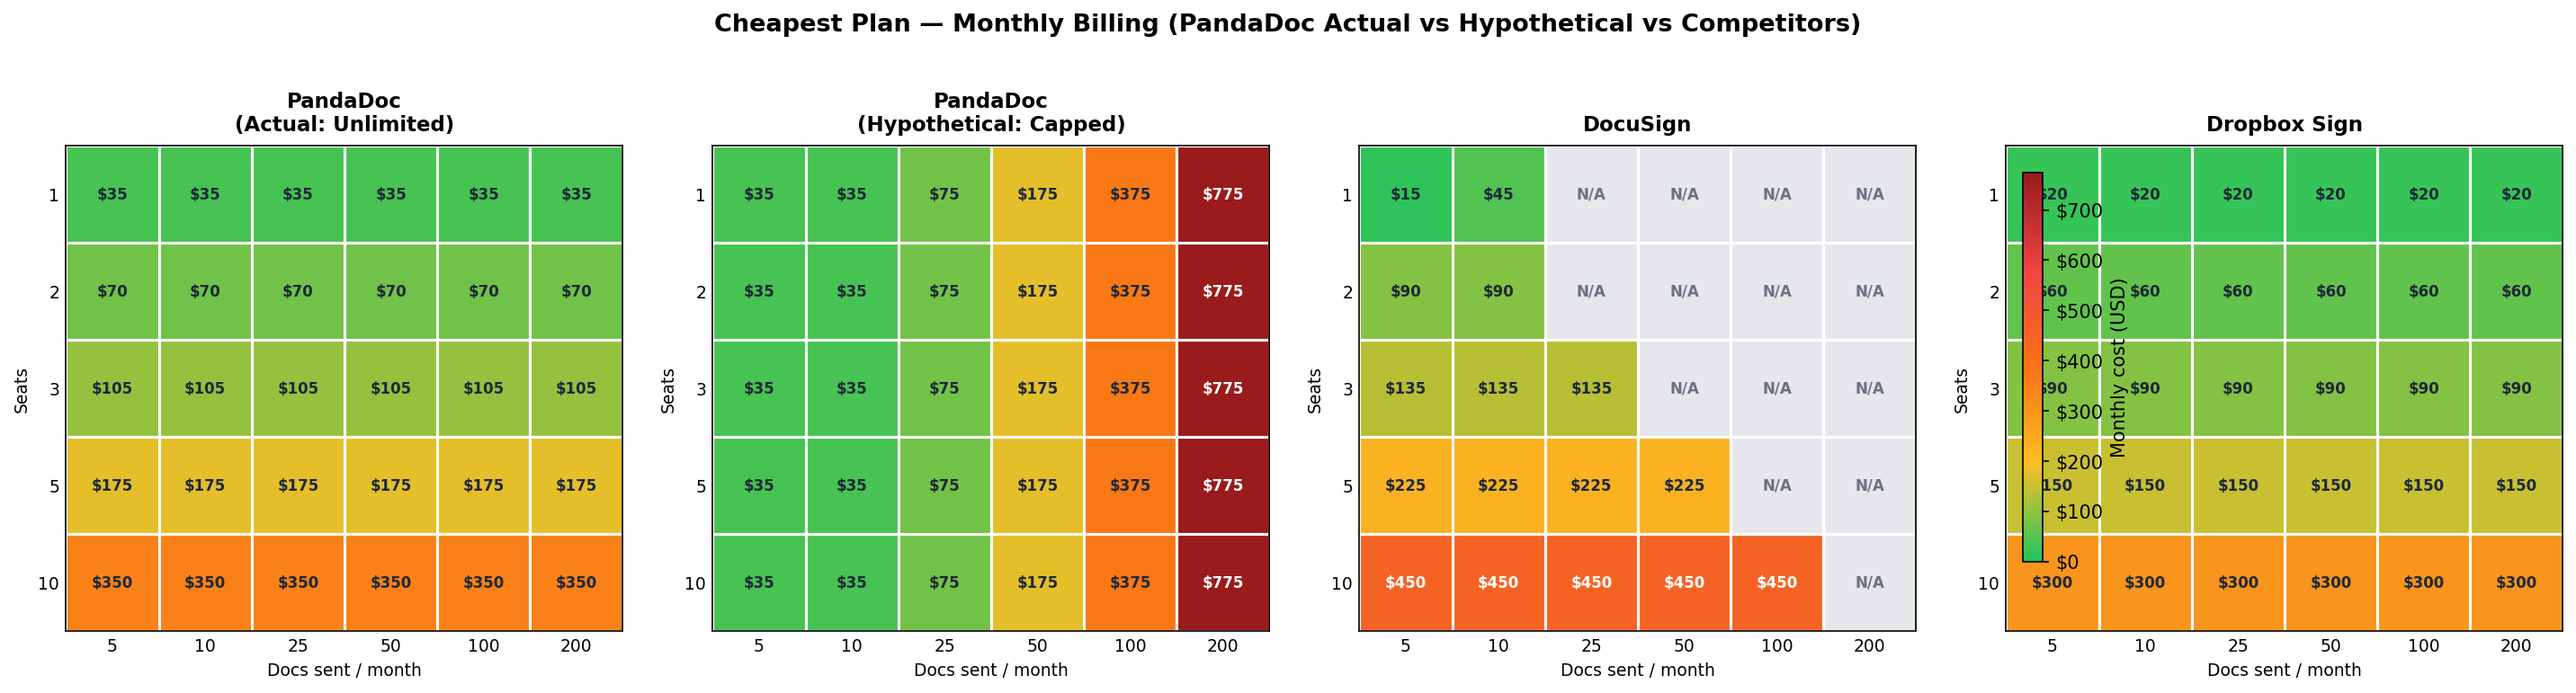
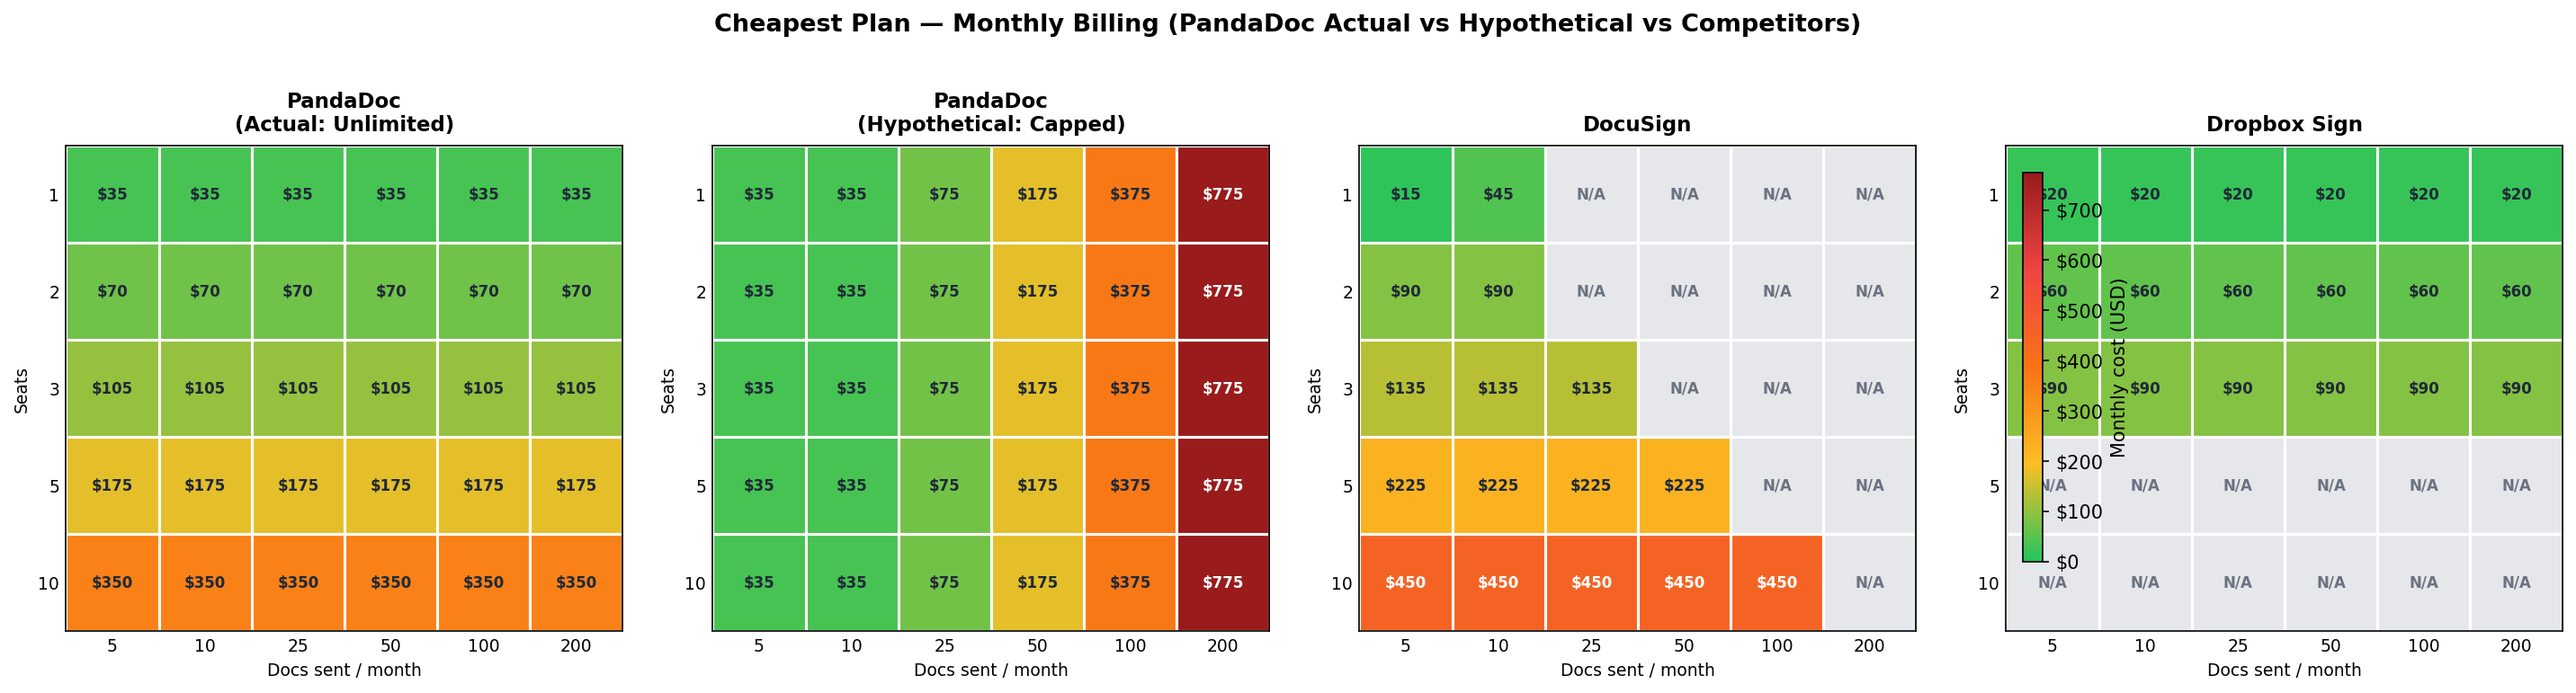
Fix Dropbox Sign seat constraints: Standard capped at 2-4, Premium at ~$50/seat
- Standard: now enforces max 4 seats (was unlimited). 5+ seats forced to Premium.
- Premium: updated estimate from $40 to $50/user/mo.
- Essentials: already correctly limited to 1 seat.

https://claude.ai/code/session_014DEMrbiRzCpwPJqmDAr6XD

Changed region(s): [[0.7769, 0.6226, 0.9944, 0.9339]]

diff --git a/generate_pricing_charts.py b/generate_pricing_charts.py
@@ -118,18 +118,18 @@ def dropbox_essentials(seats, docs_mo, annual):
 
 
 def dropbox_standard(seats, docs_mo, annual):
-    """Min 2 seats, max ~4 self-serve. Unlimited sending."""
-    if seats < 2:
+    """2-4 seats only. Unlimited sending."""
+    if seats < 2 or seats > 4:
         return None
     price = 25.0 if annual else 30.0
     return price * seats
 
 
 def dropbox_premium(seats, docs_mo, annual):
-    """Min 5 seats, custom pricing. Estimate ~$40/user/mo annual."""
+    """Min 5 seats, ~$50/user/mo."""
     if seats < 5:
         return None
-    return 40.0 * seats  # annual only, enterprise/custom for monthly
+    return 50.0 * seats  # annual only, enterprise/custom for monthly
 
 
 # ── Plan registry ─────────────────────────────────────────────────────────────
